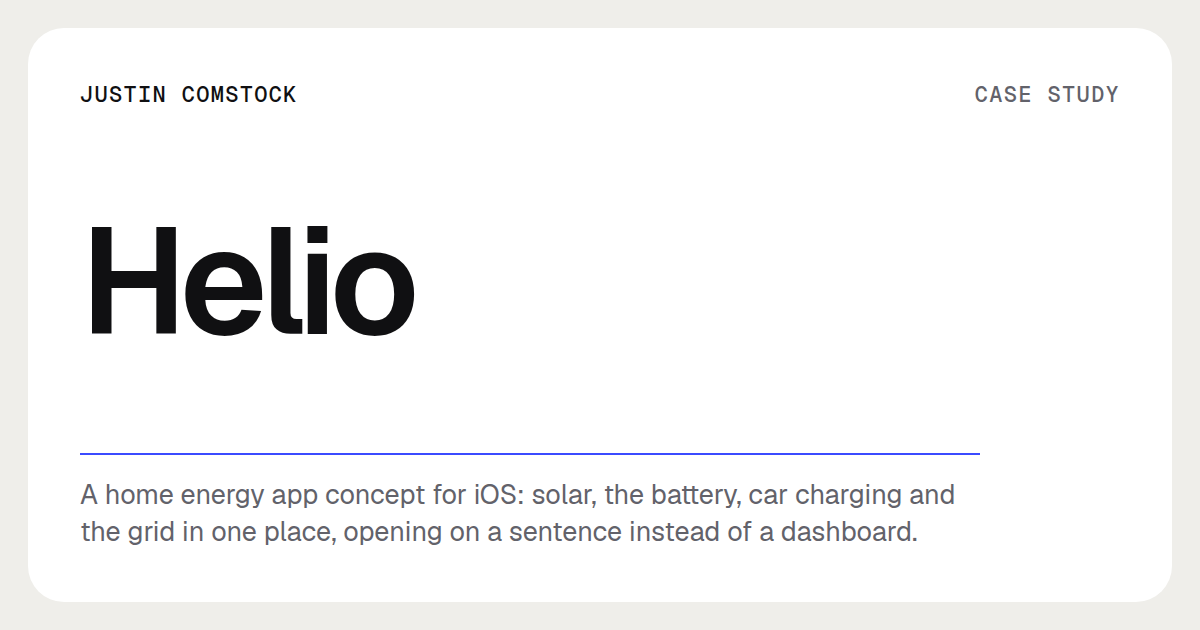
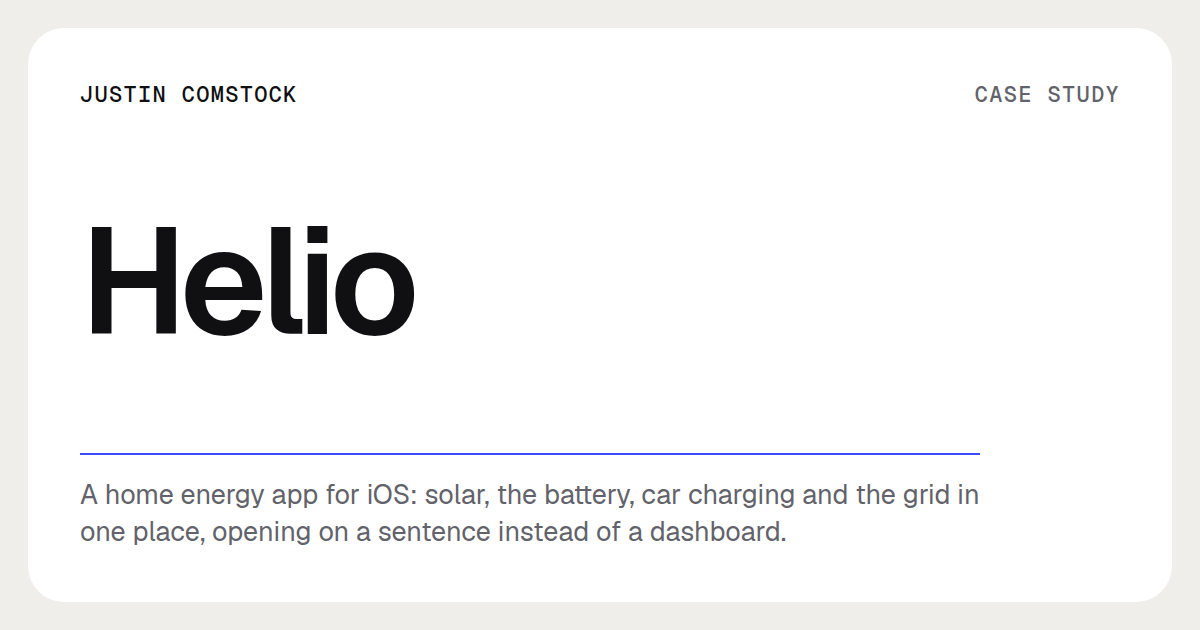
Present projects as the work they are

Changed region(s): [[0.0617, 0.754, 0.8325, 0.8746]]

diff --git a/index.html b/index.html
@@ -56,7 +56,7 @@
 </div>
 <section class="wrap" id="work" aria-labelledby="work-h">
   <h2 id="work-h" class="sh">Work <span class="mono">4 case studies, 6 shots</span></h2>
-  <div class="pgrid n4"><a class="card proj case rv" href="/projects/feelinggood"><span class="pi"><img class="" src="/_assets/next/img/feelinggood-1200.webp" srcset="/_assets/next/img/feelinggood-640.webp 640w, /_assets/next/img/feelinggood-1200.webp 1200w" sizes="(min-width:1100px) 30vw, (min-width:700px) 50vw, 100vw" alt="A hand holding a phone showing the Feeling Good app: a pink screen that asks how you are feeling today." width="1200" height="900" loading="lazy" decoding="async"></span><span class="pb"><span class="pm"><span class="pt">Feeling Good</span><span class="py mono">2023</span></span><span class="pd">Founding designer of a mental wellness app: the core flows, and a design system built from scratch.</span><span class="pg mono">Brand, Mobile, Product</span></span></a><a class="card proj case rv" href="/projects/hex-agent"><span class="pi"><video class="" data-loop muted loop playsinline preload="none" poster="/_assets/next/hex/card-poster.webp" width="1600" height="900" aria-label="A dark desktop with a glowing ring at its centre: the agent at rest. Demo content."><source src="/_assets/next/hex/card-loop.webm" type="video/webm"><source src="/_assets/next/hex/card-loop.mp4" type="video/mp4"></video></span><span class="pb"><span class="pm"><span class="pt">Hex</span><span class="py mono">2026</span></span><span class="pd">Designing an AI agent you can live with: six decisions about where its output lives and what waits for a yes.</span><span class="pg mono">Product, AI agent</span></span></a><a class="card proj case rv" href="/projects/divine"><span class="pi"><span class="dv " role="img" aria-label="The Divine logo: two letter Ds stacked like frames on a canvas."><img src="/_assets/v/logos/divine-2-layers-lockup-dark.svg" alt="" width="330" height="96"></span></span><span class="pb"><span class="pm"><span class="pt">Divine</span><span class="py mono">2023 – now</span></span><span class="pd">A native Mac design tool I design and build myself: infinite canvas, live multiplayer, and an AI agent that works on the canvas.</span><span class="pg mono">Product, Design, Engineering</span></span></a><a class="card proj case rv" href="/projects/helio"><span class="pi"><img class="" src="/_assets/next/img/helio-1200.webp" srcset="/_assets/next/img/helio-640.webp 640w, /_assets/next/img/helio-1200.webp 1200w" sizes="(min-width:1100px) 30vw, (min-width:700px) 50vw, 100vw" alt="Three iPhone screens of Helio, a home energy app: solar forecast chart, Running on sunshine status, and today&#x27;s Autopilot plan." width="1200" height="900" loading="lazy" decoding="async"></span><span class="pb"><span class="pm"><span class="pt">Helio</span><span class="py mono">2026</span></span><span class="pd">A home energy app concept for iOS: solar, the battery, car charging and the grid in one place, opening on a sentence instead of a dashboard.</span><span class="pg mono">Mobile, Product, Visual design</span></span></a><a class="card proj shot rv" href="https://dribbble.com/shots/25023595-Flight-Finder-Mobile-Airline-Booking" target="_blank" rel="noopener"><span class="pi"><img class="" src="/_assets/next/img/flight-finder-1200.webp" srcset="/_assets/next/img/flight-finder-640.webp 640w, /_assets/next/img/flight-finder-1200.webp 1200w" sizes="(min-width:1100px) 30vw, (min-width:700px) 50vw, 100vw" alt="Flight Finder: mobile app design shot." width="1200" height="900" loading="lazy" decoding="async"></span><span class="pb"><span class="pm"><span class="pt">Flight Finder</span><span class="py mono">2023</span></span><span class="pg mono">Mobile app · Dribbble <svg class="arr" viewBox="0 0 12 12" width="12" height="12" fill="none" stroke="currentColor" stroke-width="1.6" aria-hidden="true"><path d="M2 10l8-8M4 2h6v6"/></svg></span></span></a><a class="card proj shot rv" href="https://dribbble.com/shots/23190779-NFT-Marketplace-Mobile-App" target="_blank" rel="noopener"><span class="pi"><img class="" src="/_assets/next/img/nft-marketplace-1200.webp" srcset="/_assets/next/img/nft-marketplace-640.webp 640w, /_assets/next/img/nft-marketplace-1200.webp 1200w" sizes="(min-width:1100px) 30vw, (min-width:700px) 50vw, 100vw" alt="NFT Marketplace: mobile app design shot." width="1200" height="900" loading="lazy" decoding="async"></span><span class="pb"><span class="pm"><span class="pt">NFT Marketplace</span><span class="py mono">2024</span></span><span class="pg mono">Mobile app · Dribbble <svg class="arr" viewBox="0 0 12 12" width="12" height="12" fill="none" stroke="currentColor" stroke-width="1.6" aria-hidden="true"><path d="M2 10l8-8M4 2h6v6"/></svg></span></span></a><a class="card proj shot rv" href="https://dribbble.com/shots/19994596-E-Learning-Courses-Dashboard" target="_blank" rel="noopener"><span class="pi"><img class="" src="/_assets/next/img/design-courses-1200.webp" srcset="/_assets/next/img/design-courses-640.webp 640w, /_assets/next/img/design-courses-1200.webp 1200w" sizes="(min-width:1100px) 30vw, (min-width:700px) 50vw, 100vw" alt="Design Courses: web dashboard design shot." width="1200" height="900" loading="lazy" decoding="async"></span><span class="pb"><span class="pm"><span class="pt">Design Courses</span><span class="py mono">2024</span></span><span class="pg mono">Web dashboard · Dribbble <svg class="arr" viewBox="0 0 12 12" width="12" height="12" fill="none" stroke="currentColor" stroke-width="1.6" aria-hidden="true"><path d="M2 10l8-8M4 2h6v6"/></svg></span></span></a><a class="card proj shot rv" href="https://dribbble.com/shots/23711209-Neobanking-Mobile-App" target="_blank" rel="noopener"><span class="pi"><img class="" src="/_assets/next/img/neobanking-1200.webp" srcset="/_assets/next/img/neobanking-640.webp 640w, /_assets/next/img/neobanking-1200.webp 1200w" sizes="(min-width:1100px) 30vw, (min-width:700px) 50vw, 100vw" alt="Neobanking: mobile app design shot." width="1200" height="900" loading="lazy" decoding="async"></span><span class="pb"><span class="pm"><span class="pt">Neobanking</span><span class="py mono">2022</span></span><span class="pg mono">Mobile app · Dribbble <svg class="arr" viewBox="0 0 12 12" width="12" height="12" fill="none" stroke="currentColor" stroke-width="1.6" aria-hidden="true"><path d="M2 10l8-8M4 2h6v6"/></svg></span></span></a><a class="card proj shot rv" href="https://dribbble.com/shots/23919093-Kanbany-Vision-Pro-meets-Kanban" target="_blank" rel="noopener"><span class="pi"><img class="" src="/_assets/next/img/kanbany-1200.webp" srcset="/_assets/next/img/kanbany-640.webp 640w, /_assets/next/img/kanbany-1200.webp 1200w" sizes="(min-width:1100px) 30vw, (min-width:700px) 50vw, 100vw" alt="Kanbany: vision pro design shot." width="1200" height="900" loading="lazy" decoding="async"></span><span class="pb"><span class="pm"><span class="pt">Kanbany</span><span class="py mono">2023</span></span><span class="pg mono">Vision Pro · Dribbble <svg class="arr" viewBox="0 0 12 12" width="12" height="12" fill="none" stroke="currentColor" stroke-width="1.6" aria-hidden="true"><path d="M2 10l8-8M4 2h6v6"/></svg></span></span></a><a class="card proj shot rv" href="https://dribbble.com/shots/19502734-Peak-Health" target="_blank" rel="noopener"><span class="pi"><img class="" src="/_assets/next/img/peak-health-1200.webp" srcset="/_assets/next/img/peak-health-640.webp 640w, /_assets/next/img/peak-health-1200.webp 1200w" sizes="(min-width:1100px) 30vw, (min-width:700px) 50vw, 100vw" alt="Peak Health: mobile app design shot." width="1200" height="900" loading="lazy" decoding="async"></span><span class="pb"><span class="pm"><span class="pt">Peak Health</span><span class="py mono">2024</span></span><span class="pg mono">Mobile app · Dribbble <svg class="arr" viewBox="0 0 12 12" width="12" height="12" fill="none" stroke="currentColor" stroke-width="1.6" aria-hidden="true"><path d="M2 10l8-8M4 2h6v6"/></svg></span></span></a></div>
+  <div class="pgrid n4"><a class="card proj case rv" href="/projects/feelinggood"><span class="pi"><img class="" src="/_assets/next/img/feelinggood-1200.webp" srcset="/_assets/next/img/feelinggood-640.webp 640w, /_assets/next/img/feelinggood-1200.webp 1200w" sizes="(min-width:1100px) 30vw, (min-width:700px) 50vw, 100vw" alt="A hand holding a phone showing the Feeling Good app: a pink screen that asks how you are feeling today." width="1200" height="900" loading="lazy" decoding="async"></span><span class="pb"><span class="pm"><span class="pt">Feeling Good</span><span class="py mono">2023</span></span><span class="pd">Founding designer of a mental wellness app: the core flows, and a design system built from scratch.</span><span class="pg mono">Brand, Mobile, Product</span></span></a><a class="card proj case rv" href="/projects/hex-agent"><span class="pi"><video class="" data-loop muted loop playsinline preload="none" poster="/_assets/next/hex/card-poster.webp" width="1600" height="900" aria-label="A dark desktop with a glowing ring at its centre: the agent at rest. Demo content."><source src="/_assets/next/hex/card-loop.webm" type="video/webm"><source src="/_assets/next/hex/card-loop.mp4" type="video/mp4"></video></span><span class="pb"><span class="pm"><span class="pt">Hex</span><span class="py mono">2026</span></span><span class="pd">Designing an AI agent you can live with: six decisions about where its output lives and what waits for a yes.</span><span class="pg mono">Product, AI agent</span></span></a><a class="card proj case rv" href="/projects/divine"><span class="pi"><span class="dv " role="img" aria-label="The Divine logo: two letter Ds stacked like frames on a canvas."><img src="/_assets/v/logos/divine-2-layers-lockup-dark.svg" alt="" width="330" height="96"></span></span><span class="pb"><span class="pm"><span class="pt">Divine</span><span class="py mono">2023 – now</span></span><span class="pd">A native Mac design tool I design and build myself: infinite canvas, live multiplayer, and an AI agent that works on the canvas.</span><span class="pg mono">Product, Design, Engineering</span></span></a><a class="card proj case rv" href="/projects/helio"><span class="pi"><img class="" src="/_assets/next/img/helio-1200.webp" srcset="/_assets/next/img/helio-640.webp 640w, /_assets/next/img/helio-1200.webp 1200w" sizes="(min-width:1100px) 30vw, (min-width:700px) 50vw, 100vw" alt="Three iPhone screens of Helio, a home energy app: solar forecast chart, Running on sunshine status, and today&#x27;s Autopilot plan." width="1200" height="900" loading="lazy" decoding="async"></span><span class="pb"><span class="pm"><span class="pt">Helio</span><span class="py mono">2026</span></span><span class="pd">A home energy app for iOS: solar, the battery, car charging and the grid in one place, opening on a sentence instead of a dashboard.</span><span class="pg mono">Mobile, Product, Visual design</span></span></a><a class="card proj shot rv" href="https://dribbble.com/shots/25023595-Flight-Finder-Mobile-Airline-Booking" target="_blank" rel="noopener"><span class="pi"><img class="" src="/_assets/next/img/flight-finder-1200.webp" srcset="/_assets/next/img/flight-finder-640.webp 640w, /_assets/next/img/flight-finder-1200.webp 1200w" sizes="(min-width:1100px) 30vw, (min-width:700px) 50vw, 100vw" alt="Flight Finder: mobile app design shot." width="1200" height="900" loading="lazy" decoding="async"></span><span class="pb"><span class="pm"><span class="pt">Flight Finder</span><span class="py mono">2023</span></span><span class="pg mono">Mobile app · Dribbble <svg class="arr" viewBox="0 0 12 12" width="12" height="12" fill="none" stroke="currentColor" stroke-width="1.6" aria-hidden="true"><path d="M2 10l8-8M4 2h6v6"/></svg></span></span></a><a class="card proj shot rv" href="https://dribbble.com/shots/23190779-NFT-Marketplace-Mobile-App" target="_blank" rel="noopener"><span class="pi"><img class="" src="/_assets/next/img/nft-marketplace-1200.webp" srcset="/_assets/next/img/nft-marketplace-640.webp 640w, /_assets/next/img/nft-marketplace-1200.webp 1200w" sizes="(min-width:1100px) 30vw, (min-width:700px) 50vw, 100vw" alt="NFT Marketplace: mobile app design shot." width="1200" height="900" loading="lazy" decoding="async"></span><span class="pb"><span class="pm"><span class="pt">NFT Marketplace</span><span class="py mono">2024</span></span><span class="pg mono">Mobile app · Dribbble <svg class="arr" viewBox="0 0 12 12" width="12" height="12" fill="none" stroke="currentColor" stroke-width="1.6" aria-hidden="true"><path d="M2 10l8-8M4 2h6v6"/></svg></span></span></a><a class="card proj shot rv" href="https://dribbble.com/shots/19994596-E-Learning-Courses-Dashboard" target="_blank" rel="noopener"><span class="pi"><img class="" src="/_assets/next/img/design-courses-1200.webp" srcset="/_assets/next/img/design-courses-640.webp 640w, /_assets/next/img/design-courses-1200.webp 1200w" sizes="(min-width:1100px) 30vw, (min-width:700px) 50vw, 100vw" alt="Design Courses: web dashboard design shot." width="1200" height="900" loading="lazy" decoding="async"></span><span class="pb"><span class="pm"><span class="pt">Design Courses</span><span class="py mono">2024</span></span><span class="pg mono">Web dashboard · Dribbble <svg class="arr" viewBox="0 0 12 12" width="12" height="12" fill="none" stroke="currentColor" stroke-width="1.6" aria-hidden="true"><path d="M2 10l8-8M4 2h6v6"/></svg></span></span></a><a class="card proj shot rv" href="https://dribbble.com/shots/23711209-Neobanking-Mobile-App" target="_blank" rel="noopener"><span class="pi"><img class="" src="/_assets/next/img/neobanking-1200.webp" srcset="/_assets/next/img/neobanking-640.webp 640w, /_assets/next/img/neobanking-1200.webp 1200w" sizes="(min-width:1100px) 30vw, (min-width:700px) 50vw, 100vw" alt="Neobanking: mobile app design shot." width="1200" height="900" loading="lazy" decoding="async"></span><span class="pb"><span class="pm"><span class="pt">Neobanking</span><span class="py mono">2022</span></span><span class="pg mono">Mobile app · Dribbble <svg class="arr" viewBox="0 0 12 12" width="12" height="12" fill="none" stroke="currentColor" stroke-width="1.6" aria-hidden="true"><path d="M2 10l8-8M4 2h6v6"/></svg></span></span></a><a class="card proj shot rv" href="https://dribbble.com/shots/23919093-Kanbany-Vision-Pro-meets-Kanban" target="_blank" rel="noopener"><span class="pi"><img class="" src="/_assets/next/img/kanbany-1200.webp" srcset="/_assets/next/img/kanbany-640.webp 640w, /_assets/next/img/kanbany-1200.webp 1200w" sizes="(min-width:1100px) 30vw, (min-width:700px) 50vw, 100vw" alt="Kanbany: vision pro design shot." width="1200" height="900" loading="lazy" decoding="async"></span><span class="pb"><span class="pm"><span class="pt">Kanbany</span><span class="py mono">2023</span></span><span class="pg mono">Vision Pro · Dribbble <svg class="arr" viewBox="0 0 12 12" width="12" height="12" fill="none" stroke="currentColor" stroke-width="1.6" aria-hidden="true"><path d="M2 10l8-8M4 2h6v6"/></svg></span></span></a><a class="card proj shot rv" href="https://dribbble.com/shots/19502734-Peak-Health" target="_blank" rel="noopener"><span class="pi"><img class="" src="/_assets/next/img/peak-health-1200.webp" srcset="/_assets/next/img/peak-health-640.webp 640w, /_assets/next/img/peak-health-1200.webp 1200w" sizes="(min-width:1100px) 30vw, (min-width:700px) 50vw, 100vw" alt="Peak Health: mobile app design shot." width="1200" height="900" loading="lazy" decoding="async"></span><span class="pb"><span class="pm"><span class="pt">Peak Health</span><span class="py mono">2024</span></span><span class="pg mono">Mobile app · Dribbble <svg class="arr" viewBox="0 0 12 12" width="12" height="12" fill="none" stroke="currentColor" stroke-width="1.6" aria-hidden="true"><path d="M2 10l8-8M4 2h6v6"/></svg></span></span></a></div>
 </section>
 <div class="wrap two">
   <section class="exp wrap" aria-labelledby="exp-h"><h2 id="exp-h" class="sh">Experience</h2><ol class="xl"><li class="rv"><span class="xy mono">2025 – 2026</span><span class="xc">Peer</span><span class="xr">Lead product designer, contract</span><span class="xd">An AI-companion social app. Designed onboarding, the first-time experience and the companion&#x27;s progression system, working directly with the CEO.</span></li><li class="rv"><span class="xy mono">2023</span><span class="xc">Feeling Good</span><span class="xr">Founding designer</span><span class="xd">A mental wellness app. Owned the core user flows and built the web and mobile design system from scratch, working with licensed psychologists.</span></li><li class="rv"><span class="xy mono">2018 – 2022</span><span class="xc">Actabl</span><span class="xr"></span><span class="xd">Hotel-operations software used by Marriott and Hyatt. The enterprise reporting layer, a reusable data grid, and an inventory app for Comcast/Xfinity teams, researched on site.</span></li><li class="rv"><span class="xy mono">2016 – now</span><span class="xc">Freelance</span><span class="xr">Product designer</span><span class="xd">Independent product, UX/UI and web design for clients, between roles.</span></li></ol></section>

diff --git a/projects.html b/projects.html
@@ -39,7 +39,7 @@
   </div>
 </header>
 <main id="main">
-<section class="phead wrap"><h1>Work <sup class="mono">(10)</sup></h1><p class="lede">4 case studies that open here, and 6 shots that open on Dribbble.</p></section><section class="wrap"><div class="pgrid n4"><a class="card proj case rv" href="/projects/feelinggood"><span class="pi"><img class="" src="/_assets/next/img/feelinggood-1200.webp" srcset="/_assets/next/img/feelinggood-640.webp 640w, /_assets/next/img/feelinggood-1200.webp 1200w" sizes="(min-width:1100px) 30vw, (min-width:700px) 50vw, 100vw" alt="A hand holding a phone showing the Feeling Good app: a pink screen that asks how you are feeling today." width="1200" height="900" loading="lazy" decoding="async"></span><span class="pb"><span class="pm"><span class="pt">Feeling Good</span><span class="py mono">2023</span></span><span class="pd">Founding designer of a mental wellness app: the core flows, and a design system built from scratch.</span><span class="pg mono">Brand, Mobile, Product</span></span></a><a class="card proj case rv" href="/projects/hex-agent"><span class="pi"><video class="" data-loop muted loop playsinline preload="none" poster="/_assets/next/hex/card-poster.webp" width="1600" height="900" aria-label="A dark desktop with a glowing ring at its centre: the agent at rest. Demo content."><source src="/_assets/next/hex/card-loop.webm" type="video/webm"><source src="/_assets/next/hex/card-loop.mp4" type="video/mp4"></video></span><span class="pb"><span class="pm"><span class="pt">Hex</span><span class="py mono">2026</span></span><span class="pd">Designing an AI agent you can live with: six decisions about where its output lives and what waits for a yes.</span><span class="pg mono">Product, AI agent</span></span></a><a class="card proj case rv" href="/projects/divine"><span class="pi"><span class="dv " role="img" aria-label="The Divine logo: two letter Ds stacked like frames on a canvas."><img src="/_assets/v/logos/divine-2-layers-lockup-dark.svg" alt="" width="330" height="96"></span></span><span class="pb"><span class="pm"><span class="pt">Divine</span><span class="py mono">2023 – now</span></span><span class="pd">A native Mac design tool I design and build myself: infinite canvas, live multiplayer, and an AI agent that works on the canvas.</span><span class="pg mono">Product, Design, Engineering</span></span></a><a class="card proj case rv" href="/projects/helio"><span class="pi"><img class="" src="/_assets/next/img/helio-1200.webp" srcset="/_assets/next/img/helio-640.webp 640w, /_assets/next/img/helio-1200.webp 1200w" sizes="(min-width:1100px) 30vw, (min-width:700px) 50vw, 100vw" alt="Three iPhone screens of Helio, a home energy app: solar forecast chart, Running on sunshine status, and today&#x27;s Autopilot plan." width="1200" height="900" loading="lazy" decoding="async"></span><span class="pb"><span class="pm"><span class="pt">Helio</span><span class="py mono">2026</span></span><span class="pd">A home energy app concept for iOS: solar, the battery, car charging and the grid in one place, opening on a sentence instead of a dashboard.</span><span class="pg mono">Mobile, Product, Visual design</span></span></a><a class="card proj shot rv" href="https://dribbble.com/shots/25023595-Flight-Finder-Mobile-Airline-Booking" target="_blank" rel="noopener"><span class="pi"><img class="" src="/_assets/next/img/flight-finder-1200.webp" srcset="/_assets/next/img/flight-finder-640.webp 640w, /_assets/next/img/flight-finder-1200.webp 1200w" sizes="(min-width:1100px) 30vw, (min-width:700px) 50vw, 100vw" alt="Flight Finder: mobile app design shot." width="1200" height="900" loading="lazy" decoding="async"></span><span class="pb"><span class="pm"><span class="pt">Flight Finder</span><span class="py mono">2023</span></span><span class="pg mono">Mobile app · Dribbble <svg class="arr" viewBox="0 0 12 12" width="12" height="12" fill="none" stroke="currentColor" stroke-width="1.6" aria-hidden="true"><path d="M2 10l8-8M4 2h6v6"/></svg></span></span></a><a class="card proj shot rv" href="https://dribbble.com/shots/23190779-NFT-Marketplace-Mobile-App" target="_blank" rel="noopener"><span class="pi"><img class="" src="/_assets/next/img/nft-marketplace-1200.webp" srcset="/_assets/next/img/nft-marketplace-640.webp 640w, /_assets/next/img/nft-marketplace-1200.webp 1200w" sizes="(min-width:1100px) 30vw, (min-width:700px) 50vw, 100vw" alt="NFT Marketplace: mobile app design shot." width="1200" height="900" loading="lazy" decoding="async"></span><span class="pb"><span class="pm"><span class="pt">NFT Marketplace</span><span class="py mono">2024</span></span><span class="pg mono">Mobile app · Dribbble <svg class="arr" viewBox="0 0 12 12" width="12" height="12" fill="none" stroke="currentColor" stroke-width="1.6" aria-hidden="true"><path d="M2 10l8-8M4 2h6v6"/></svg></span></span></a><a class="card proj shot rv" href="https://dribbble.com/shots/19994596-E-Learning-Courses-Dashboard" target="_blank" rel="noopener"><span class="pi"><img class="" src="/_assets/next/img/design-courses-1200.webp" srcset="/_assets/next/img/design-courses-640.webp 640w, /_assets/next/img/design-courses-1200.webp 1200w" sizes="(min-width:1100px) 30vw, (min-width:700px) 50vw, 100vw" alt="Design Courses: web dashboard design shot." width="1200" height="900" loading="lazy" decoding="async"></span><span class="pb"><span class="pm"><span class="pt">Design Courses</span><span class="py mono">2024</span></span><span class="pg mono">Web dashboard · Dribbble <svg class="arr" viewBox="0 0 12 12" width="12" height="12" fill="none" stroke="currentColor" stroke-width="1.6" aria-hidden="true"><path d="M2 10l8-8M4 2h6v6"/></svg></span></span></a><a class="card proj shot rv" href="https://dribbble.com/shots/23711209-Neobanking-Mobile-App" target="_blank" rel="noopener"><span class="pi"><img class="" src="/_assets/next/img/neobanking-1200.webp" srcset="/_assets/next/img/neobanking-640.webp 640w, /_assets/next/img/neobanking-1200.webp 1200w" sizes="(min-width:1100px) 30vw, (min-width:700px) 50vw, 100vw" alt="Neobanking: mobile app design shot." width="1200" height="900" loading="lazy" decoding="async"></span><span class="pb"><span class="pm"><span class="pt">Neobanking</span><span class="py mono">2022</span></span><span class="pg mono">Mobile app · Dribbble <svg class="arr" viewBox="0 0 12 12" width="12" height="12" fill="none" stroke="currentColor" stroke-width="1.6" aria-hidden="true"><path d="M2 10l8-8M4 2h6v6"/></svg></span></span></a><a class="card proj shot rv" href="https://dribbble.com/shots/23919093-Kanbany-Vision-Pro-meets-Kanban" target="_blank" rel="noopener"><span class="pi"><img class="" src="/_assets/next/img/kanbany-1200.webp" srcset="/_assets/next/img/kanbany-640.webp 640w, /_assets/next/img/kanbany-1200.webp 1200w" sizes="(min-width:1100px) 30vw, (min-width:700px) 50vw, 100vw" alt="Kanbany: vision pro design shot." width="1200" height="900" loading="lazy" decoding="async"></span><span class="pb"><span class="pm"><span class="pt">Kanbany</span><span class="py mono">2023</span></span><span class="pg mono">Vision Pro · Dribbble <svg class="arr" viewBox="0 0 12 12" width="12" height="12" fill="none" stroke="currentColor" stroke-width="1.6" aria-hidden="true"><path d="M2 10l8-8M4 2h6v6"/></svg></span></span></a><a class="card proj shot rv" href="https://dribbble.com/shots/19502734-Peak-Health" target="_blank" rel="noopener"><span class="pi"><img class="" src="/_assets/next/img/peak-health-1200.webp" srcset="/_assets/next/img/peak-health-640.webp 640w, /_assets/next/img/peak-health-1200.webp 1200w" sizes="(min-width:1100px) 30vw, (min-width:700px) 50vw, 100vw" alt="Peak Health: mobile app design shot." width="1200" height="900" loading="lazy" decoding="async"></span><span class="pb"><span class="pm"><span class="pt">Peak Health</span><span class="py mono">2024</span></span><span class="pg mono">Mobile app · Dribbble <svg class="arr" viewBox="0 0 12 12" width="12" height="12" fill="none" stroke="currentColor" stroke-width="1.6" aria-hidden="true"><path d="M2 10l8-8M4 2h6v6"/></svg></span></span></a></div></section>
+<section class="phead wrap"><h1>Work <sup class="mono">(10)</sup></h1><p class="lede">4 case studies that open here, and 6 shots that open on Dribbble.</p></section><section class="wrap"><div class="pgrid n4"><a class="card proj case rv" href="/projects/feelinggood"><span class="pi"><img class="" src="/_assets/next/img/feelinggood-1200.webp" srcset="/_assets/next/img/feelinggood-640.webp 640w, /_assets/next/img/feelinggood-1200.webp 1200w" sizes="(min-width:1100px) 30vw, (min-width:700px) 50vw, 100vw" alt="A hand holding a phone showing the Feeling Good app: a pink screen that asks how you are feeling today." width="1200" height="900" loading="lazy" decoding="async"></span><span class="pb"><span class="pm"><span class="pt">Feeling Good</span><span class="py mono">2023</span></span><span class="pd">Founding designer of a mental wellness app: the core flows, and a design system built from scratch.</span><span class="pg mono">Brand, Mobile, Product</span></span></a><a class="card proj case rv" href="/projects/hex-agent"><span class="pi"><video class="" data-loop muted loop playsinline preload="none" poster="/_assets/next/hex/card-poster.webp" width="1600" height="900" aria-label="A dark desktop with a glowing ring at its centre: the agent at rest. Demo content."><source src="/_assets/next/hex/card-loop.webm" type="video/webm"><source src="/_assets/next/hex/card-loop.mp4" type="video/mp4"></video></span><span class="pb"><span class="pm"><span class="pt">Hex</span><span class="py mono">2026</span></span><span class="pd">Designing an AI agent you can live with: six decisions about where its output lives and what waits for a yes.</span><span class="pg mono">Product, AI agent</span></span></a><a class="card proj case rv" href="/projects/divine"><span class="pi"><span class="dv " role="img" aria-label="The Divine logo: two letter Ds stacked like frames on a canvas."><img src="/_assets/v/logos/divine-2-layers-lockup-dark.svg" alt="" width="330" height="96"></span></span><span class="pb"><span class="pm"><span class="pt">Divine</span><span class="py mono">2023 – now</span></span><span class="pd">A native Mac design tool I design and build myself: infinite canvas, live multiplayer, and an AI agent that works on the canvas.</span><span class="pg mono">Product, Design, Engineering</span></span></a><a class="card proj case rv" href="/projects/helio"><span class="pi"><img class="" src="/_assets/next/img/helio-1200.webp" srcset="/_assets/next/img/helio-640.webp 640w, /_assets/next/img/helio-1200.webp 1200w" sizes="(min-width:1100px) 30vw, (min-width:700px) 50vw, 100vw" alt="Three iPhone screens of Helio, a home energy app: solar forecast chart, Running on sunshine status, and today&#x27;s Autopilot plan." width="1200" height="900" loading="lazy" decoding="async"></span><span class="pb"><span class="pm"><span class="pt">Helio</span><span class="py mono">2026</span></span><span class="pd">A home energy app for iOS: solar, the battery, car charging and the grid in one place, opening on a sentence instead of a dashboard.</span><span class="pg mono">Mobile, Product, Visual design</span></span></a><a class="card proj shot rv" href="https://dribbble.com/shots/25023595-Flight-Finder-Mobile-Airline-Booking" target="_blank" rel="noopener"><span class="pi"><img class="" src="/_assets/next/img/flight-finder-1200.webp" srcset="/_assets/next/img/flight-finder-640.webp 640w, /_assets/next/img/flight-finder-1200.webp 1200w" sizes="(min-width:1100px) 30vw, (min-width:700px) 50vw, 100vw" alt="Flight Finder: mobile app design shot." width="1200" height="900" loading="lazy" decoding="async"></span><span class="pb"><span class="pm"><span class="pt">Flight Finder</span><span class="py mono">2023</span></span><span class="pg mono">Mobile app · Dribbble <svg class="arr" viewBox="0 0 12 12" width="12" height="12" fill="none" stroke="currentColor" stroke-width="1.6" aria-hidden="true"><path d="M2 10l8-8M4 2h6v6"/></svg></span></span></a><a class="card proj shot rv" href="https://dribbble.com/shots/23190779-NFT-Marketplace-Mobile-App" target="_blank" rel="noopener"><span class="pi"><img class="" src="/_assets/next/img/nft-marketplace-1200.webp" srcset="/_assets/next/img/nft-marketplace-640.webp 640w, /_assets/next/img/nft-marketplace-1200.webp 1200w" sizes="(min-width:1100px) 30vw, (min-width:700px) 50vw, 100vw" alt="NFT Marketplace: mobile app design shot." width="1200" height="900" loading="lazy" decoding="async"></span><span class="pb"><span class="pm"><span class="pt">NFT Marketplace</span><span class="py mono">2024</span></span><span class="pg mono">Mobile app · Dribbble <svg class="arr" viewBox="0 0 12 12" width="12" height="12" fill="none" stroke="currentColor" stroke-width="1.6" aria-hidden="true"><path d="M2 10l8-8M4 2h6v6"/></svg></span></span></a><a class="card proj shot rv" href="https://dribbble.com/shots/19994596-E-Learning-Courses-Dashboard" target="_blank" rel="noopener"><span class="pi"><img class="" src="/_assets/next/img/design-courses-1200.webp" srcset="/_assets/next/img/design-courses-640.webp 640w, /_assets/next/img/design-courses-1200.webp 1200w" sizes="(min-width:1100px) 30vw, (min-width:700px) 50vw, 100vw" alt="Design Courses: web dashboard design shot." width="1200" height="900" loading="lazy" decoding="async"></span><span class="pb"><span class="pm"><span class="pt">Design Courses</span><span class="py mono">2024</span></span><span class="pg mono">Web dashboard · Dribbble <svg class="arr" viewBox="0 0 12 12" width="12" height="12" fill="none" stroke="currentColor" stroke-width="1.6" aria-hidden="true"><path d="M2 10l8-8M4 2h6v6"/></svg></span></span></a><a class="card proj shot rv" href="https://dribbble.com/shots/23711209-Neobanking-Mobile-App" target="_blank" rel="noopener"><span class="pi"><img class="" src="/_assets/next/img/neobanking-1200.webp" srcset="/_assets/next/img/neobanking-640.webp 640w, /_assets/next/img/neobanking-1200.webp 1200w" sizes="(min-width:1100px) 30vw, (min-width:700px) 50vw, 100vw" alt="Neobanking: mobile app design shot." width="1200" height="900" loading="lazy" decoding="async"></span><span class="pb"><span class="pm"><span class="pt">Neobanking</span><span class="py mono">2022</span></span><span class="pg mono">Mobile app · Dribbble <svg class="arr" viewBox="0 0 12 12" width="12" height="12" fill="none" stroke="currentColor" stroke-width="1.6" aria-hidden="true"><path d="M2 10l8-8M4 2h6v6"/></svg></span></span></a><a class="card proj shot rv" href="https://dribbble.com/shots/23919093-Kanbany-Vision-Pro-meets-Kanban" target="_blank" rel="noopener"><span class="pi"><img class="" src="/_assets/next/img/kanbany-1200.webp" srcset="/_assets/next/img/kanbany-640.webp 640w, /_assets/next/img/kanbany-1200.webp 1200w" sizes="(min-width:1100px) 30vw, (min-width:700px) 50vw, 100vw" alt="Kanbany: vision pro design shot." width="1200" height="900" loading="lazy" decoding="async"></span><span class="pb"><span class="pm"><span class="pt">Kanbany</span><span class="py mono">2023</span></span><span class="pg mono">Vision Pro · Dribbble <svg class="arr" viewBox="0 0 12 12" width="12" height="12" fill="none" stroke="currentColor" stroke-width="1.6" aria-hidden="true"><path d="M2 10l8-8M4 2h6v6"/></svg></span></span></a><a class="card proj shot rv" href="https://dribbble.com/shots/19502734-Peak-Health" target="_blank" rel="noopener"><span class="pi"><img class="" src="/_assets/next/img/peak-health-1200.webp" srcset="/_assets/next/img/peak-health-640.webp 640w, /_assets/next/img/peak-health-1200.webp 1200w" sizes="(min-width:1100px) 30vw, (min-width:700px) 50vw, 100vw" alt="Peak Health: mobile app design shot." width="1200" height="900" loading="lazy" decoding="async"></span><span class="pb"><span class="pm"><span class="pt">Peak Health</span><span class="py mono">2024</span></span><span class="pg mono">Mobile app · Dribbble <svg class="arr" viewBox="0 0 12 12" width="12" height="12" fill="none" stroke="currentColor" stroke-width="1.6" aria-hidden="true"><path d="M2 10l8-8M4 2h6v6"/></svg></span></span></a></div></section>
 </main>
 <footer class="foot">
   <div class="wrap">

diff --git a/projects/helio.html b/projects/helio.html
@@ -4,19 +4,19 @@
 <meta charset="utf-8">
 <meta name="viewport" content="width=device-width, initial-scale=1">
 <title>Helio | Justin Comstock</title>
-<meta name="description" content="Helio, a home energy app concept for iOS: status as a sentence, one power bar split to scale, and an Autopilot plan that shows its work.">
+<meta name="description" content="Helio, a home energy app for iOS: status as a sentence, one power bar split to scale, and an Autopilot plan that shows its work.">
 <link rel="canonical" href="https://justincomstock.com/projects/helio">
 <meta property="og:type" content="website">
 <meta property="og:site_name" content="Justin Comstock">
 <meta property="og:title" content="Helio | Justin Comstock">
-<meta property="og:description" content="Helio, a home energy app concept for iOS: status as a sentence, one power bar split to scale, and an Autopilot plan that shows its work.">
+<meta property="og:description" content="Helio, a home energy app for iOS: status as a sentence, one power bar split to scale, and an Autopilot plan that shows its work.">
 <meta property="og:url" content="https://justincomstock.com/projects/helio">
 <meta property="og:image" content="https://justincomstock.com/_assets/v/og/helio.png">
 <meta property="og:image:width" content="1200">
 <meta property="og:image:height" content="630">
 <meta name="twitter:card" content="summary_large_image">
 <meta name="twitter:title" content="Helio | Justin Comstock">
-<meta name="twitter:description" content="Helio, a home energy app concept for iOS: status as a sentence, one power bar split to scale, and an Autopilot plan that shows its work.">
+<meta name="twitter:description" content="Helio, a home energy app for iOS: status as a sentence, one power bar split to scale, and an Autopilot plan that shows its work.">
 <meta name="twitter:image" content="https://justincomstock.com/_assets/v/og/helio.png">
 <meta name="theme-color" content="#efeeea">
 <link rel="icon" href="/_assets/v/favicon.svg" type="image/svg+xml">
@@ -43,10 +43,10 @@
 <article class="case c-helio">
   <div class="ctop">
     <header class="chead wrap">
-      <p class="crumb mono"><a href="/projects">Work</a><span aria-hidden="true"> / </span><span>Concept</span></p>
+      <p class="crumb mono"><a href="/projects">Work</a><span aria-hidden="true"> / </span><span>Case study</span></p>
       <h1>Helio</h1>
       <p class="intro">Helio is a home energy app that brings solar, the battery, car charging and the grid into one place. It opens on a sentence instead of a dashboard, shows where your power is going with one bar split to scale, and lists what Autopilot will do next and what it saves you.</p>
-      <dl class="meta"><div><dt class='mono'>Project</dt><dd>Self-initiated concept</dd></div><div><dt class='mono'>Platform</dt><dd>iOS</dd></div><div><dt class='mono'>Year</dt><dd>2026</dd></div><div><dt class='mono'>Services</dt><dd>Mobile, Product, Visual design</dd></div></dl>
+      <dl class="meta"><div><dt class='mono'>Platform</dt><dd>iOS</dd></div><div><dt class='mono'>Year</dt><dd>2026</dd></div><div><dt class='mono'>Services</dt><dd>Mobile, Product, Visual design</dd></div><div><dt class='mono'>Screens</dt><dd>Now, Energy, Plan</dd></div></dl>
       <p class="clinks"><a class="btn ghost" href="https://dribbble.com/shots/27784859-Helio-Mobile-App" target="_blank" rel="noopener">Helio on Dribbble <svg class="arr" viewBox="0 0 12 12" width="12" height="12" fill="none" stroke="currentColor" stroke-width="1.6" aria-hidden="true"><path d="M2 10l8-8M4 2h6v6"/></svg></a></p>
     </header>
     <div class="chero"><video data-loop muted loop playsinline preload="metadata" poster="/_assets/next/helio/hero-poster.webp" width="1600" height="1200" aria-label="The Helio Now screen in motion on an iPhone: the Running on sunshine headline, then the power bar filling in to scale and the next three events."><source media="(max-width: 809px)" src="/_assets/next/helio/hero-loop-narrow.mp4" type="video/mp4"><source src="/_assets/next/helio/hero-loop.mp4" type="video/mp4"></video></div>
@@ -58,7 +58,7 @@
   <div class="txt">
     <h2>Home energy, by the hour.</h2>
     <p>Helio brings solar, the battery, car charging and the grid into one place. It opens on a sentence instead of a dashboard, shows where your power is going with one bar split to scale, and lists what Autopilot will do next and what it saves you.</p>
-    <p>It is a concept I designed for iOS: three screens (Now, Energy and Plan) and the small system they are built from.</p>
+    <p>Designed for iOS: three screens (Now, Energy and Plan) and the small system they are built from.</p>
   </div>
 </section>
 <section class="sec">

diff --git a/projects/hex-agent.html b/projects/hex-agent.html
@@ -45,8 +45,8 @@
     <header class="chead wrap">
       <p class="crumb mono"><a href="/projects">Work</a><span aria-hidden="true"> / </span><span>Case study</span></p>
       <h1>Hex</h1>
-      <p class="intro">Designing an AI agent you can live with. Hex sees my day and acts in it: it keeps a short list of what needs me, drafts what I would send, and keeps working on my computer between conversations. I designed the product and its interaction rules and directed the AI coding agents that built it. It has one user so far: me.</p>
-      <dl class="meta"><div><dt class='mono'>Project</dt><dd>Personal, one user</dd></div><div><dt class='mono'>Year</dt><dd>2026</dd></div><div><dt class='mono'>Role</dt><dd>Product and interaction design, direction of AI coding agents</dd></div><div><dt class='mono'>Built on</dt><dd>Claude, OpenClaw, Python, SQLite, plain HTML/CSS/JS</dd></div></dl>
+      <p class="intro">Designing an AI agent you can live with. Hex sees my day and acts in it: it keeps a short list of what needs me, drafts what I would send, and keeps working on my computer between conversations. I designed the product and its interaction rules and directed the AI coding agents that built it.</p>
+      <dl class="meta"><div><dt class='mono'>Year</dt><dd>2026</dd></div><div><dt class='mono'>Role</dt><dd>Product and interaction design, direction of AI coding agents</dd></div><div><dt class='mono'>Built on</dt><dd>Claude, OpenClaw, Python, SQLite, plain HTML/CSS/JS</dd></div></dl>
       
     </header>
     <div class="chero"><video data-loop muted loop playsinline preload="metadata" poster="/_assets/next/hex/hero-poster.webp" width="2800" height="1200" aria-label="Hex on the desktop: a glowing ring with a slowly turning core, small points of light circling it. Beside it, what the agent is doing right now and what it finished lately. Demo content."><source media="(max-width: 809px)" src="/_assets/next/hex/hero-loop-narrow.webm" type="video/webm"><source media="(max-width: 809px)" src="/_assets/next/hex/hero-loop-narrow.mp4" type="video/mp4"><source src="/_assets/next/hex/hero-loop.webm" type="video/webm"><source src="/_assets/next/hex/hero-loop.mp4" type="video/mp4"></video></div>
@@ -137,7 +137,7 @@
     </section>
     <section class="sec"><p class="lab">05 / Where it stands</p><div class="txt">
         <h2>Running every day, for one person.</h2>
-        <p>This is a personal project with one user. It runs daily on a small server and my PC. I have no metrics to show. The phone side is still thin, and the newest surface, drawing on my desktop at will, is only days old.</p>
+        <p>It runs daily on a small server and my PC. The phone side is still thin, and the newest surface, drawing on my desktop at will, is only days old.</p>
         <p>It runs on Claude models through OpenClaw, an open-source agent runtime. The rest is Python, SQLite and plain HTML, CSS and JavaScript.</p>
         <p>What I'd take to a team: the hard part of an agent isn't what it can do. It is where its output lives, what waits for a yes, and how you take something back.</p>
       </div>

diff --git a/projects/divine.html b/projects/divine.html
@@ -46,7 +46,7 @@
       <p class="crumb mono"><a href="/projects">Work</a><span aria-hidden="true"> / </span><span>Case study</span></p>
       <h1>Divine</h1>
       <p class="intro">Divine is a native Mac design tool I&#x27;ve been designing and building on my own since 2023: an infinite canvas, live multiplayer, and an AI agent that designs on the canvas with you. It&#x27;s in development and hasn&#x27;t been released. This is the work so far, and the decisions behind it.</p>
-      <dl class="meta"><div><dt class='mono'>Client</dt><dd>Self-initiated</dd></div><div><dt class='mono'>Year</dt><dd>2023 to now</dd></div><div><dt class='mono'>Services</dt><dd>Product, Design, Engineering</dd></div><div><dt class='mono'>Status</dt><dd>In development</dd></div></dl>
+      <dl class="meta"><div><dt class='mono'>Platform</dt><dd>macOS</dd></div><div><dt class='mono'>Year</dt><dd>2023 to now</dd></div><div><dt class='mono'>Services</dt><dd>Product, Design, Engineering</dd></div><div><dt class='mono'>Status</dt><dd>In development</dd></div></dl>
       <p class="clinks"><a class="btn ghost" href="https://divineapp.ai" target="_blank" rel="noopener">Product site <svg class="arr" viewBox="0 0 12 12" width="12" height="12" fill="none" stroke="currentColor" stroke-width="1.6" aria-hidden="true"><path d="M2 10l8-8M4 2h6v6"/></svg></a></p>
     </header>
     <div class="chero is-banner"><span class="dv" role="img" aria-label="The Divine logo: two letter Ds stacked like frames on a canvas."><img src="/_assets/v/logos/divine-2-layers-lockup-dark.svg" alt="" width="330" height="96"></span></div>
